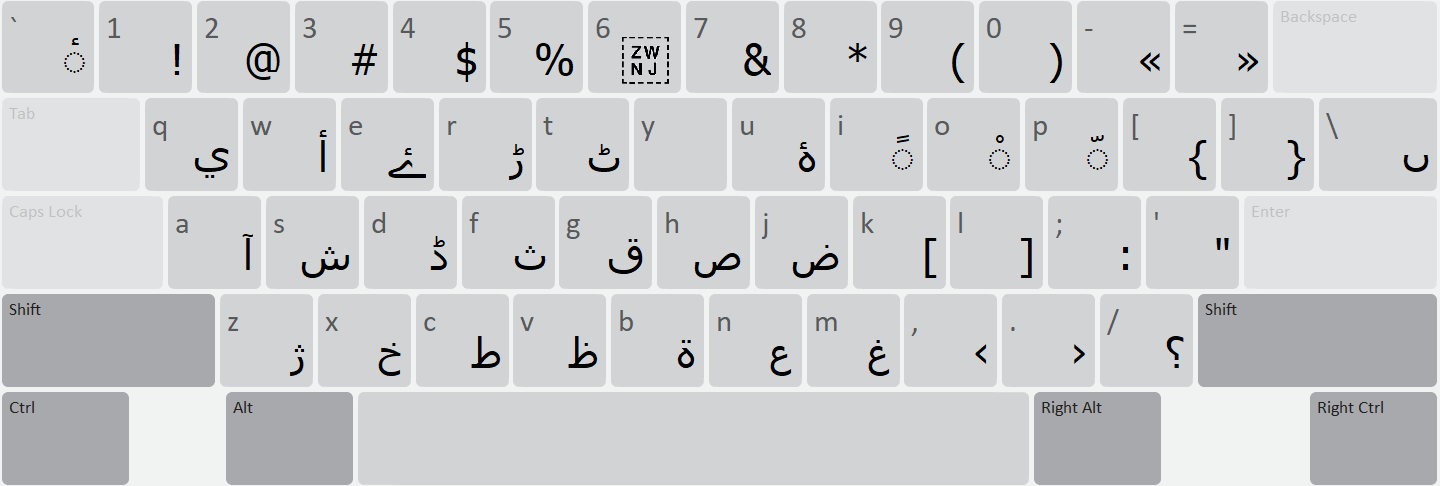
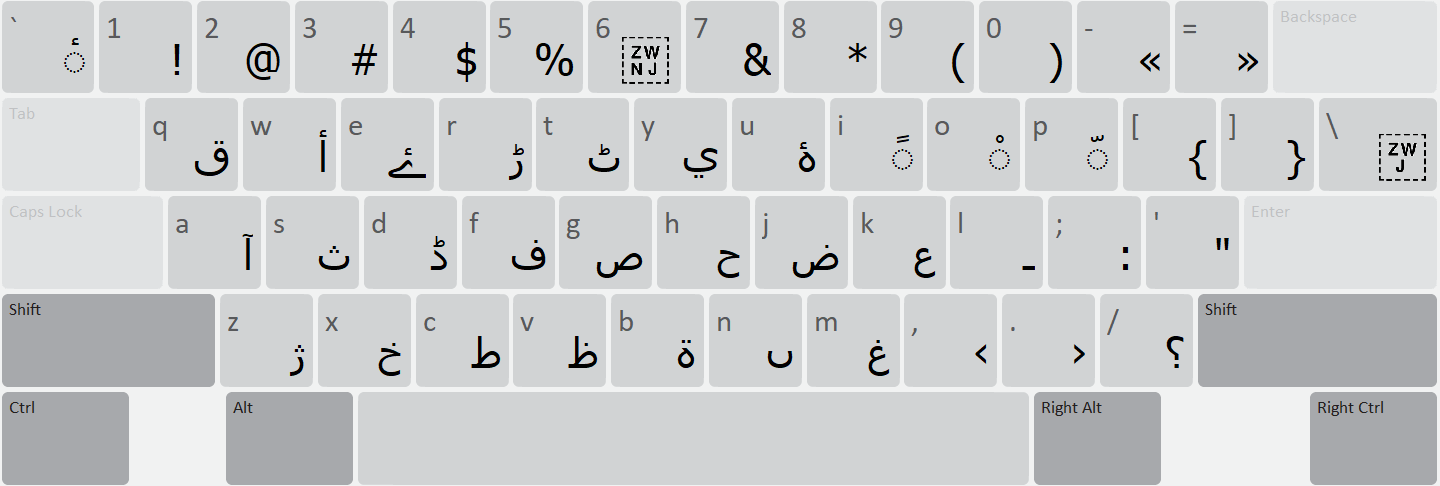
Put feh, hah and tatweel on the shift level since they are not used in the Balochi alphabet. In their place put fatah, kasreh and shin.

diff --git a/release/b/balochi_phonetic/source/welcome/welcome.htm b/release/b/balochi_phonetic/source/welcome/welcome.htm
@@ -28,6 +28,7 @@ menu item. Similar keyboards are also available for other desktop and mobile pla
 <p>Version 1.1.1, released 18 June 2018</p>
 <p>Version 1.1.2, released 4 April 2019</p>
 <p>Version 1.2, released 9 August 2019</p>
+<p>Version 1.3, released 20 January 2020</p>
 
 </body>
 </html>

diff --git a/release/b/balochi_phonetic/source/help/balochi_phonetic.php b/release/b/balochi_phonetic/source/help/balochi_phonetic.php
@@ -29,6 +29,14 @@ menu item. Similar keyboards are also available for other desktop and mobile pla
 
 <h2>History</h2>
 
+<h3>1.3 (20 Jan 2020)</h3>
+<ul>
+  <li>Put feh, hah and tatweel on the shift level since they are not used in the </li>
+  <li>Balochi alphabet. In their place put fatah, kasreh and shin. Also moved the </li>
+  <li>Arabic yeh to unused shift Y. Other shifted letters moved around to accomodate. </li>
+  <li>Other minor changes. </li>
+</ul>
+
 <h3>1.2 (9 Aug 2019)</h3>
 <ul>
   <li>Removed deadkeys for Indic numbers. Use ctrl combination instead. </li>

diff --git a/release/b/balochi_phonetic/HISTORY.md b/release/b/balochi_phonetic/HISTORY.md
@@ -1,5 +1,12 @@
 Balochi Phonetic Change History
 ===============================
+1.3 (20 Aug 2020)
+----------------
+Put feh, hah and tatweel on the shift level since they are not used in the
+Balochi alphabet. In their place put fatah, kasreh and shin. Also moved the
+Arabic yeh to unused shift Y. Other shifted letters moved around to accomodate.
+Other minor changes.
+
 1.2 (9 Aug 2019)
 ----------------
 Removed deadkeys for Indic numbers. Use ctrl combination instead. Added the 

diff --git a/release/b/balochi_phonetic/LICENSE.md b/release/b/balochi_phonetic/LICENSE.md
@@ -1,6 +1,6 @@
 The MIT License (MIT)
 
-Copyright (c) 2017-2019 SIL International
+Copyright (c) 2017-2020 SIL International
 
 Permission is hereby granted, free of charge, to any person obtaining a copy
 of this software and associated documentation files (the "Software"), to deal

diff --git a/release/b/balochi_phonetic/README.md b/release/b/balochi_phonetic/README.md
@@ -2,8 +2,8 @@ Keyboard Data
 -------------
 
 * Name:           Balochi Phonetic
-* Copyright:      (C) 2017-2019 SIL International
-* Version:        1.2
+* Copyright:      (C) 2017-2020 SIL International
+* Version:        1.3
 * Keyman Version: 10.0
 * BCP-47 codes:   bcc-Arab
 
